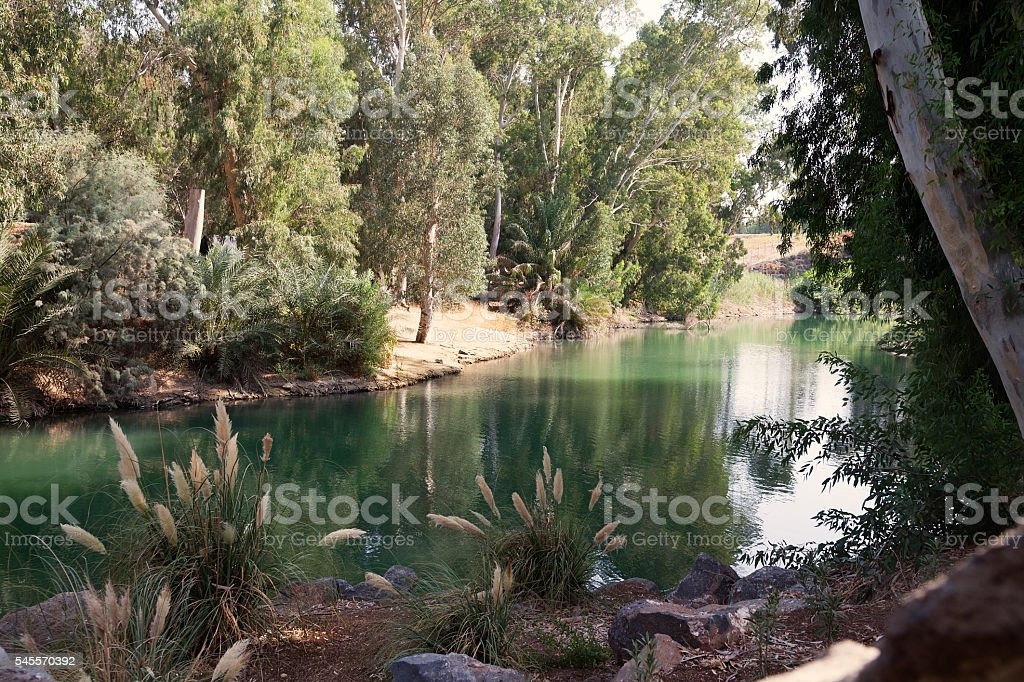
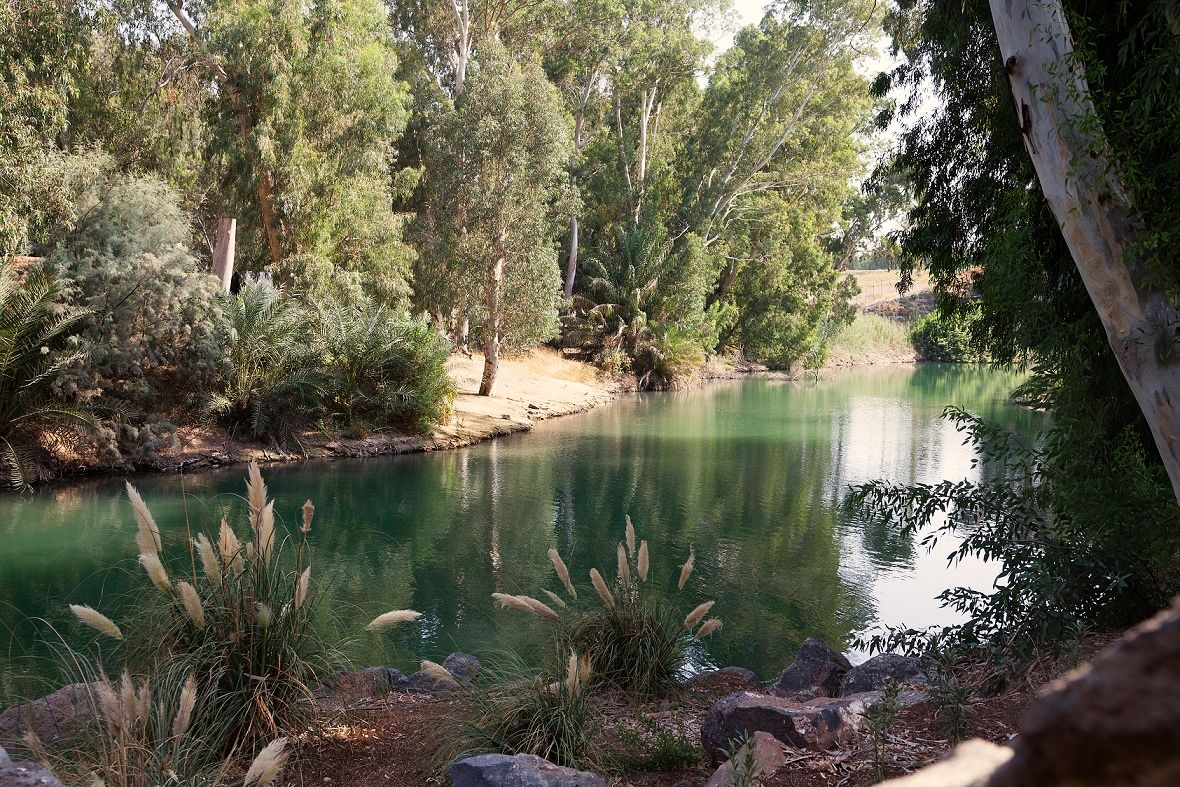
Use real rather than watermarked image for homepage. Use highly compressed form of it. Add mailing list page

diff --git a/content/mailing-list.md b/content/mailing-list.md
@@ -2,12 +2,14 @@
 title: Mailing List
 ---
 
-The BibleDriven mailing list...
+The mailing list for BibleDriven will update followers of this ministry when new studies are posted on the website. Prayer requests and content from other recommended teaching ministries will also be passed along whenever I see it as beneficial to do so. 
 
-TODO
+As for mailing frequency, I cannot guarantee precisely when or how often I will send out news and updates. I will send out emails not only based upon on my own production rate, but also based on the number of prayer requests I want to pass along, as well as the number of other resources I have available to recommend.
+
+Regardless, I won't spam you.
 
 ## Signing up
 
-You can sign up for the mailing list using the form below:
+To join the mailing list, you can sign up by entering your email address in the form below:
 
 <form style="border:1px solid #ccc;margin-top:15px;padding:3px;text-align:center;" action="https://tinyletter.com/BibleDocs" method="post" target="popupwindow" onsubmit="window.open('https://tinyletter.com/BibleDocs', 'popupwindow', 'scrollbars=yes,width=800,height=600');return true"><p><label for="tlemail">Enter your email address</label></p><p><input type="text" style="width:60%;margin-bottom:15px" name="email" id="tlemail" /></p><input type="hidden" value="1" name="embed"/><input type="submit" value="Subscribe" style="margin-bottom:15px"/></form>
